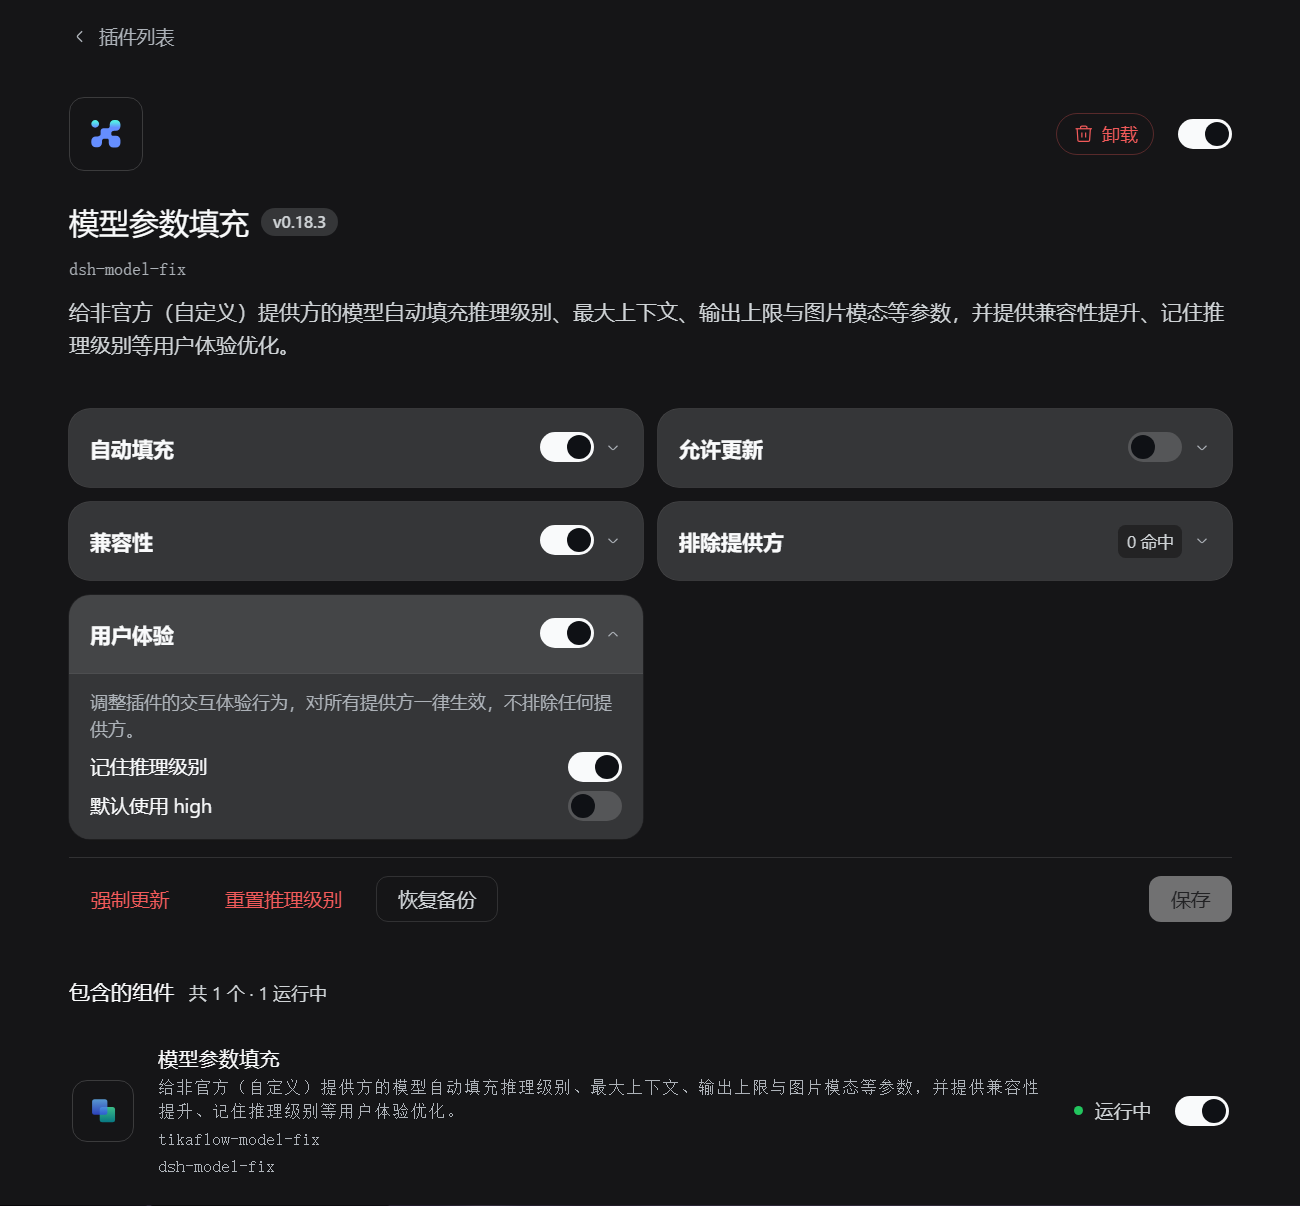
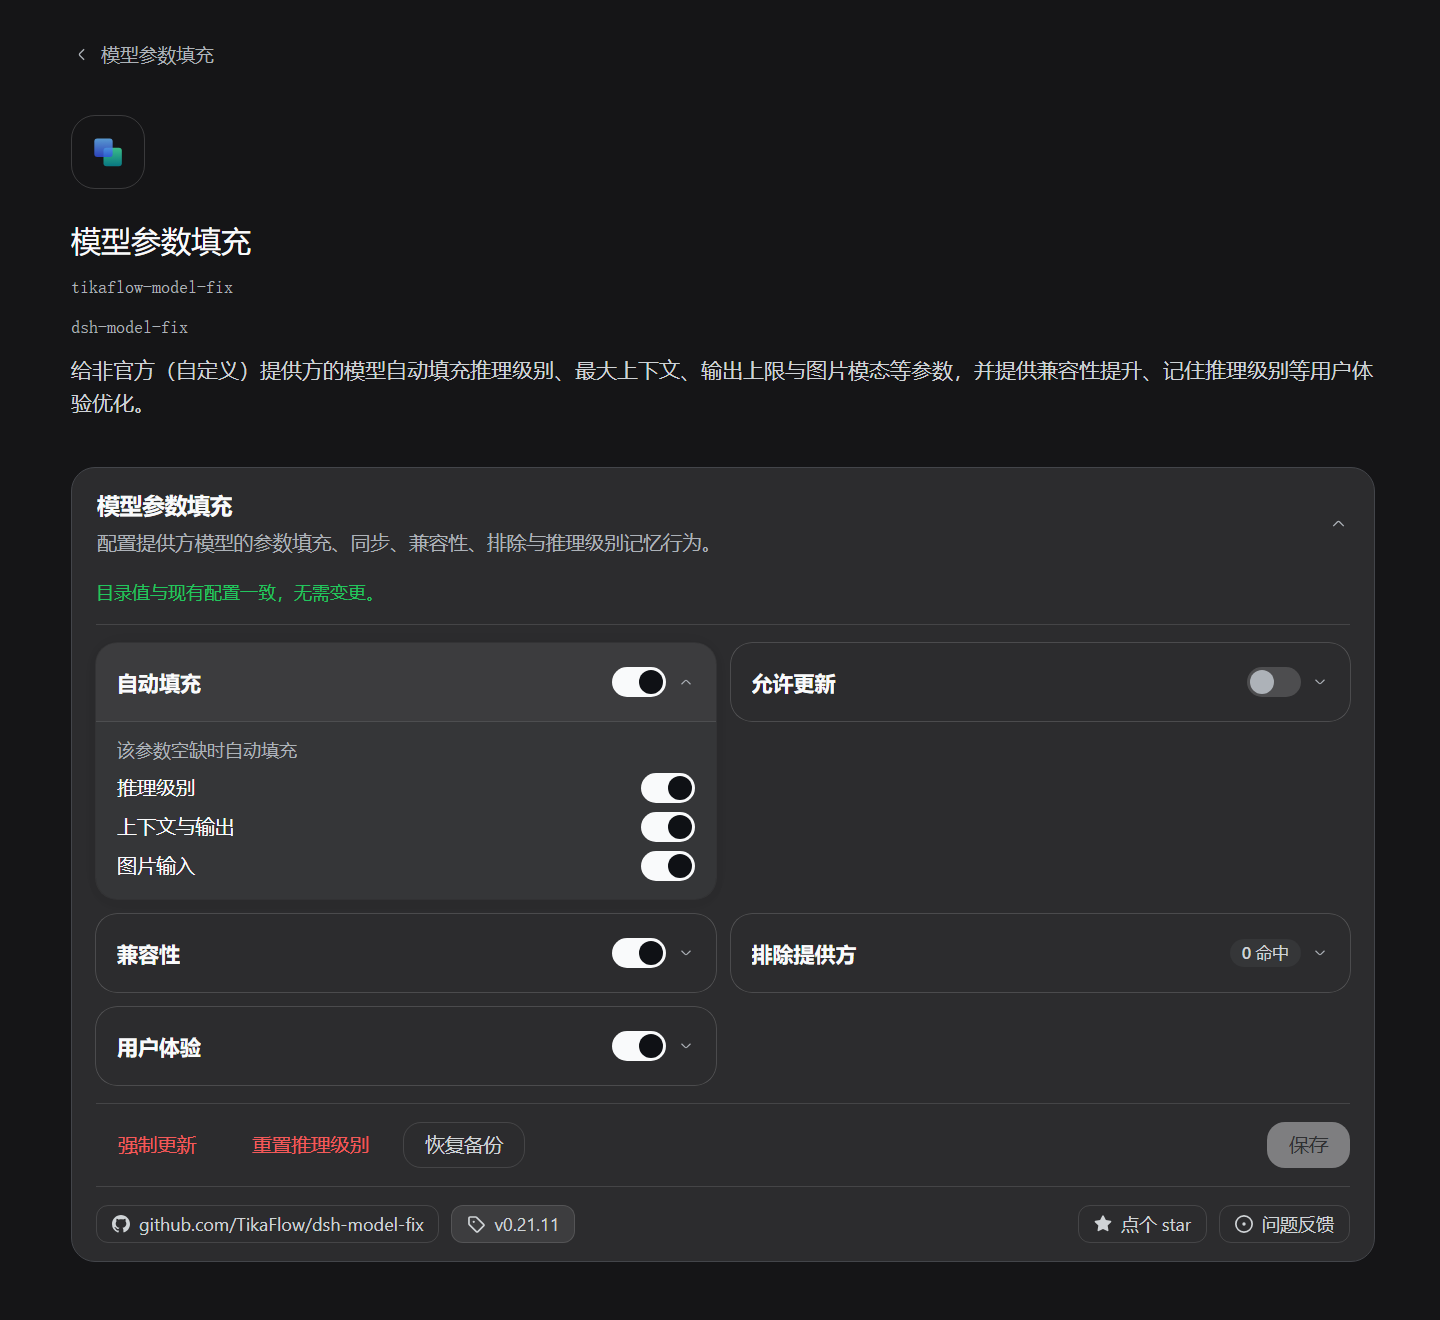
chore: 更新版本至0.21.11并更新相关资源和文档
更新了截图文件，升级包版本到0.21.11，新增对应版本的发布说明，说明中包含重构移除低版本DSH支持、UI优化等内容

diff --git a/release_notes/v0.21.11.md b/release_notes/v0.21.11.md
@@ -1,0 +1,16 @@
+重构：移除对低版本 DSH 的支持。
+
+> [!TIP]
+> 若 DSH 版本低于 `0.1.7-rc.2`，请升级 DSH 到最新版本，或在`Release`页面下载本插件的上一个版本：[v0.20.1](https://github.com/TikaFlow/dsh-model-fix/releases/v0.20.1)（当前版本与上一个版本功能相同）。
+
+### 体验优化
+
+- 「放弃修改」改名为「取消」。
+- 优化UI，更贴合宿主界面。
+
+### 其他变更
+
+- **重要**：移除了对低版本的支持，现在最低支持 DSH `0.1.7-rc.2`（更低版本的 DSH 不保证兼容性）。
+- 测试产物自动清理。
+
+---
